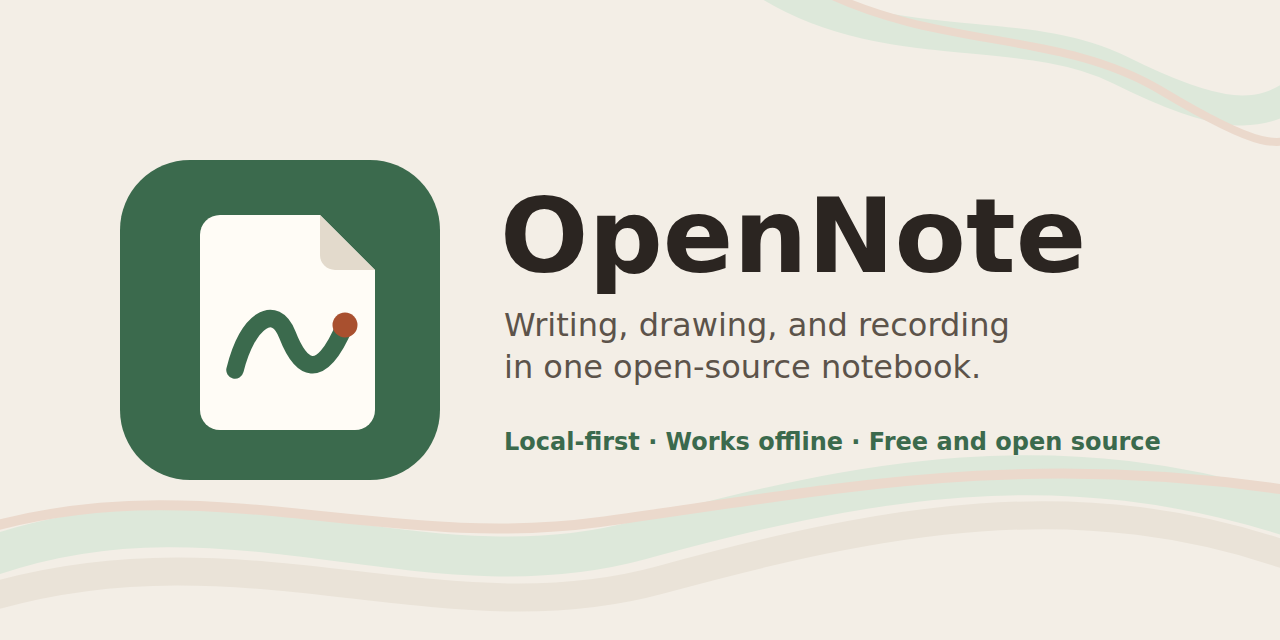
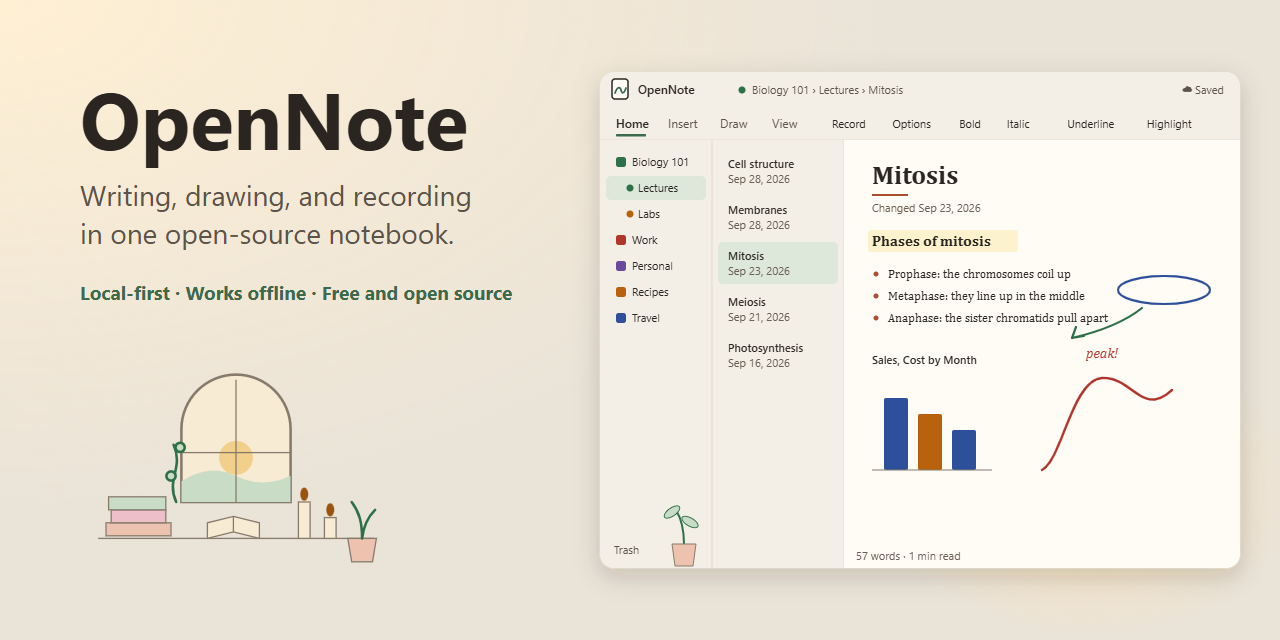
Re-render the social preview with the desk by the window and a workspace
The banner still showed the first design: the app icon and wavy lines.
It now shows the desk-by-the-window scene beside a real-looking workspace
(notebooks, pages, a page of notes with ink and a chart) on the ambient
canvas. The SVG is generated with the wireframes by npm run design, so it
follows the design tokens. File names and the 1280 by 640 size are kept.

diff --git a/docs/design/social-preview.ts b/docs/design/social-preview.ts
@@ -1,0 +1,168 @@
+// The social preview image (1280 by 640): the product name and tagline beside the desk by the window and a
+// real-looking workspace. brand/social-preview.png is rendered from the SVG this writes.
+
+import { type Palette, circle, ink, line, palette, rect, text } from './lib/svg.ts';
+import { ambientCanvas, deskScene, logo, plantPot } from './lib/chrome.ts';
+
+const WIN = { x: 600, y: 72, w: 640, h: 496 };
+const SIDE = 112;
+const PAGES = 132;
+const BAR = 34;
+
+const TREE: [string, number, string, boolean?][] = [
+  ['Biology 101', 0, 'Fern'],
+  ['Lectures', 1, 'Fern', true],
+  ['Labs', 1, 'Amber'],
+  ['Work', 0, 'Brick'],
+  ['Personal', 0, 'Plum'],
+  ['Recipes', 0, 'Amber'],
+  ['Travel', 0, 'Indigo'],
+];
+
+const PAGE_LIST: [string, string, boolean?][] = [
+  ['Cell structure', 'Sep 28, 2026'],
+  ['Membranes', 'Sep 28, 2026'],
+  ['Mitosis', 'Sep 23, 2026', true],
+  ['Meiosis', 'Sep 21, 2026'],
+  ['Photosynthesis', 'Sep 16, 2026'],
+];
+
+function titleAndTabs(p: Palette): string {
+  const { x, y, w } = WIN;
+  const tabs = ['Home', 'Insert', 'Draw', 'View'];
+  const tools = ['Record', 'Options', 'Bold', 'Italic', 'Underline', 'Highlight'];
+  const parts = [
+    rect({ x, y, w, h: BAR * 2 }, { fill: p.c('surface.app') }),
+    logo(p, x + 12, y + 7),
+    text(x + 38, y + 22, 'OpenNote', { size: 12, weight: 600, fill: p.c('text.primary') }),
+    circle(x + 142, y + 18, 3.5, p.pen('Fern')),
+    text(x + 152, y + 22, 'Biology 101 › Lectures › Mitosis', { size: 11, fill: p.c('text.secondary') }),
+    text(x + w - 16, y + 22, '☁ Saved', { size: 11, fill: p.c('text.secondary'), anchor: 'end' }),
+    line([x, y + BAR * 2], [x + w, y + BAR * 2], p.c('border.subtle')),
+  ];
+  tabs.forEach((tab, i) => {
+    const tx = x + 16 + i * 52;
+    parts.push(
+      text(tx, y + BAR + 22, tab, {
+        size: 12,
+        weight: i === 0 ? 600 : 400,
+        fill: p.c(i === 0 ? 'text.primary' : 'text.secondary'),
+      }),
+    );
+    if (i === 0) parts.push(rect({ x: tx, y: y + BAR + 28, w: 30, h: 2.5 }, { fill: p.c('accent.primary'), r: 1 }));
+  });
+  let tx = x + 232;
+  for (const tool of tools) {
+    parts.push(text(tx, y + BAR + 22, tool, { size: 11, fill: p.c('text.primary') }));
+    tx += tool.length * 6.4 + 22;
+  }
+  return parts.join('');
+}
+
+function panes(p: Palette): string {
+  const top = WIN.y + BAR * 2;
+  const h = WIN.h - BAR * 2;
+  const parts = [
+    rect({ x: WIN.x, y: top, w: SIDE + PAGES, h }, { fill: p.c('surface.app') }),
+    line([WIN.x + SIDE, top], [WIN.x + SIDE, top + h], p.c('border.subtle')),
+    line([WIN.x + SIDE + PAGES, top], [WIN.x + SIDE + PAGES, top + h], p.c('border.subtle')),
+  ];
+  TREE.forEach(([label, depth, pen, selected], i) => {
+    const ty = top + 10 + i * 26;
+    if (selected)
+      parts.push(rect({ x: WIN.x + 6, y: ty, w: SIDE - 12, h: 24 }, { fill: p.c('surface.selected'), r: 5 }));
+    parts.push(
+      depth === 0
+        ? rect({ x: WIN.x + 16, y: ty + 7, w: 10, h: 10 }, { fill: p.pen(pen), r: 2.5 })
+        : circle(WIN.x + 30, ty + 12, 3.5, p.pen(pen)),
+      text(WIN.x + (depth === 0 ? 32 : 38), ty + 16, label, { size: 11, fill: p.c('text.primary') }),
+    );
+  });
+  parts.push(
+    text(WIN.x + 14, top + h - 14, 'Trash', { size: 11, fill: p.c('text.secondary') }),
+    plantPot(p, WIN.x + SIDE - 52, top + h - 64),
+  );
+  PAGE_LIST.forEach(([title, date, selected], i) => {
+    const py = top + 10 + i * 46;
+    if (selected)
+      parts.push(rect({ x: WIN.x + SIDE + 6, y: py, w: PAGES - 12, h: 42 }, { fill: p.c('surface.selected'), r: 5 }));
+    parts.push(
+      text(WIN.x + SIDE + 16, py + 18, title, { size: 11, weight: 500, fill: p.c('text.primary') }),
+      text(WIN.x + SIDE + 16, py + 33, date, { size: 11, fill: p.c('text.muted') }),
+    );
+  });
+  return parts.join('');
+}
+
+function page(p: Palette): string {
+  const left = WIN.x + SIDE + PAGES;
+  const top = WIN.y + BAR * 2;
+  const w = WIN.x + WIN.w - left;
+  const h = WIN.h - BAR * 2;
+  const x = left + 28;
+  const body = { size: 12, fill: p.c('text.primary'), font: 'reading' as const };
+  const bullets = [
+    'Prophase: the chromosomes coil up',
+    'Metaphase: they line up in the middle',
+    'Anaphase: the sister chromatids pull apart',
+  ];
+  const bars = [72, 56, 40];
+  return [
+    rect({ x: left, y: top, w, h }, { fill: p.c('surface.page') }),
+    text(x, top + 44, 'Mitosis', { size: 26, weight: 700, fill: p.c('text.primary'), font: 'reading' }),
+    rect({ x, y: top + 54, w: 36, h: 2 }, { fill: p.c('accent.clay') }),
+    text(x, top + 72, 'Changed Sep 23, 2026', { size: 11, fill: p.c('text.muted') }),
+    rect({ x: x - 4, y: top + 90, w: 150, h: 22 }, { fill: p.highlighter('Honey'), r: 3, opacity: 0.6 }),
+    text(x, top + 106, 'Phases of mitosis', { size: 15, weight: 700, fill: p.c('text.primary'), font: 'reading' }),
+    ...bullets.flatMap((item, i) => [
+      circle(x + 4, top + 134 + i * 22, 2.5, p.c('accent.clay')),
+      text(x + 16, top + 138 + i * 22, item, body),
+    ]),
+    ink(`M${x + 246} ${top + 150}a46 14 0 1 0 92 0a46 14 0 1 0-92 0`, p.pen('Indigo'), 2.2),
+    ink(`M${x + 270} ${top + 168}c-20 16-44 24-70 30m0 0l12-2m-12 2l4-11`, p.pen('Fern'), 2.2),
+    ...bars.map((bh, i) =>
+      rect(
+        { x: x + 12 + i * 34, y: top + 330 - bh, w: 24, h: bh },
+        { fill: p.pen(i === 1 ? 'Amber' : 'Indigo'), r: 2 },
+      ),
+    ),
+    line([x, top + 330], [x + 120, top + 330], p.c('border.control')),
+    text(x, top + 224, 'Sales, Cost by Month', { size: 11, weight: 600, fill: p.c('text.primary') }),
+    ink(`M${x + 170} ${top + 330}c20-10 30-90 60-92s40 40 70 12`, p.pen('Brick'), 2.4),
+    text(x + 214, top + 218, 'peak!', { size: 14, fill: p.pen('Brick'), italic: true, font: 'reading' }),
+    text(left + 12, top + h - 8, '57 words · 1 min read', { size: 11, fill: p.c('text.muted') }),
+  ].join('');
+}
+
+export function socialPreview(): string {
+  const p = palette('light');
+  const tagline = { size: 28, fill: p.c('text.secondary') };
+  return [
+    `<svg xmlns="http://www.w3.org/2000/svg" viewBox="0 0 1280 640" width="1280" height="640" role="img" aria-labelledby="title" data-safe-margin="40">`,
+    `<title id="title">OpenNote: writing, drawing, and recording in one open-source notebook</title>`,
+    `<defs><filter id="lift" x="-10%" y="-10%" width="120%" height="130%">`,
+    `<feDropShadow dx="0" dy="8" stdDeviation="12" flood-color="#2B2521" flood-opacity="0.18"/></filter></defs>`,
+    ambientCanvas(p, { x: 0, y: 0, w: 1280, h: 640 }),
+    `<g font-family="'Atkinson Hyperlegible Next', 'Segoe UI', 'DejaVu Sans', sans-serif">`,
+    text(80, 150, 'OpenNote', { size: 80, weight: 700, fill: p.c('text.primary') }),
+    text(80, 206, 'Writing, drawing, and recording', tagline),
+    text(80, 244, 'in one open-source notebook.', tagline),
+    text(80, 300, 'Local-first  ·  Works offline  ·  Free and open source', {
+      size: 19,
+      weight: 700,
+      fill: p.c('accent.primary'),
+    }),
+    `</g>`,
+    `<g data-important="desk by the window">${deskScene(p, 80, 372, 1.3)}</g>`,
+    `<g filter="url(#lift)" data-important="workspace">`,
+    rect(WIN, { fill: p.c('surface.app'), stroke: p.c('border.subtle'), r: 14 }),
+    `<clipPath id="win"><rect x="${WIN.x}" y="${WIN.y}" width="${WIN.w}" height="${WIN.h}" rx="14"/></clipPath>`,
+    `<g clip-path="url(#win)" font-family="'Atkinson Hyperlegible Next', 'Segoe UI', 'DejaVu Sans', sans-serif">`,
+    titleAndTabs(p),
+    panes(p),
+    page(p),
+    `</g></g>`,
+    `</svg>`,
+    '',
+  ].join('\n');
+}

diff --git a/docs/design/generate.ts b/docs/design/generate.ts
@@ -1,8 +1,9 @@
-// Regenerates every wireframe in docs/design/images from brand/tokens.json.
+// Regenerates every wireframe in docs/design/images, and brand/social-preview.svg, from brand/tokens.json.
 // Run with: npm run design
 
 import { mkdirSync, writeFileSync } from 'node:fs';
 import { join } from 'node:path';
+import { socialPreview } from './social-preview.ts';
 import type { Screen } from './screens/screen.ts';
 import { firstRunLook, firstRunSmart, firstRunStorage } from './screens/first-run.ts';
 import { studyTools } from './screens/study.ts';
@@ -76,3 +77,6 @@ for (const screen of screens) {
   writeFileSync(join(OUT_DIR, screen.file), screen.svg);
   console.log(`wrote ${screen.file}`);
 }
+
+writeFileSync(join(import.meta.dirname, '..', '..', 'brand', 'social-preview.svg'), socialPreview());
+console.log('wrote brand/social-preview.svg');
